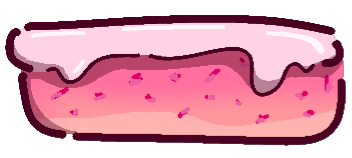
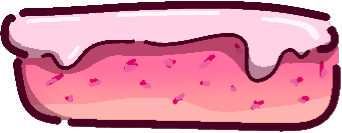
Update to Level 1
- Edited Platform Textures to fit better
- Edited Positions & Scalings

diff --git a/Cardinals/GameStates/Level1.cpp b/Cardinals/GameStates/Level1.cpp
@@ -17,6 +17,7 @@ namespace {
 
 	//LEVEL VARIABLES
 	Texture placeholderTexture;
+	Texture verticalPlatformTex, horizontalPlatformTex;
 	Texture backgrounds[4]{};
 	GameObject backgroundObjs[4]{};
 	GameObject platform;
@@ -46,6 +47,8 @@ void Level1_Load() {
 
 	playerTexture.Load_Image(Images::Player);
 	placeholderTexture.Load_Image(Images::Placeholder);
+	verticalPlatformTex.Load_Image(Images::Platform_VL);
+	horizontalPlatformTex.Load_Image(Images::Platform_HL);
 	backgrounds[0].Load_Image(Images::BG_BACKMOST);
 	backgrounds[1].Load_Image(Images::BG_CLOUDS);
 	backgrounds[2].Load_Image(Images::BG_MOUNTAIN);
@@ -54,6 +57,8 @@ void Level1_Load() {
 	if (!textures.empty()) textures.clear();
 	textures.push_back(&playerTexture);
 	textures.push_back(&placeholderTexture);
+	textures.push_back(&verticalPlatformTex);
+	textures.push_back(&horizontalPlatformTex);
 	for (Texture& t : backgrounds) {
 		textures.push_back(&t);
 	}
@@ -82,35 +87,35 @@ void Level1_Initialize()
 	mainPlayer._tag = GameObjectTag::Player;
 
 	platform.SetMesh(squareMesh);
-	platform.SetTexture(&placeholderTexture);
+	platform.SetTexture(&verticalPlatformTex);
 	platform.SetID(assigner.GetID());
-	platform.UpdateScale(AEVec2{ 500.f,900.f });
+	platform.UpdateScale(AEVec2{ 450.f,200.f });
 	platform.UpdateRotation(0.f);
-	platform.UpdatePosition(AEVec2{ AEGfxGetWinMinX() + 200.f, AEGfxGetWinMinY()});
+	platform.UpdatePosition(AEVec2{ AEGfxGetWinMinX() + 200.f, -100.f});
 
 	wall0.SetMesh(squareMesh);
-	wall0.SetTexture(&placeholderTexture);
+	wall0.SetTexture(&horizontalPlatformTex);
 	wall0.SetID(assigner.GetID());
-	wall0.UpdateScale(AEVec2{ 100.f,500.f });
+	wall0.UpdateScale(AEVec2{ 150.f,300.f });
 	wall0.UpdateRotation(0.f);
 	wall0.UpdatePosition(AEVec2{ 500.f, -200.f });
 
 	wall1.SetMesh(squareMesh);
-	wall1.SetTexture(&placeholderTexture);
+	wall1.SetTexture(&horizontalPlatformTex);
 	wall1.SetID(assigner.GetID());
-	wall1.UpdateScale(AEVec2{ 100.f,500.f });
+	wall1.UpdateScale(AEVec2{ 250.f,500.f });
 	wall1.UpdateRotation(0.f);
 	wall1.UpdatePosition(AEVec2{ 200.f, -200.f });
 
 	wall2.SetMesh(squareMesh);
-	wall2.SetTexture(&placeholderTexture);
+	wall2.SetTexture(&verticalPlatformTex);
 	wall2.SetID(assigner.GetID());
 	wall2.UpdateScale(AEVec2{ 500.f,100.f });
 	wall2.UpdateRotation(0.f);
 	wall2.UpdatePosition(AEVec2{ 0.f, -200.f });
 
 	wall3.SetMesh(squareMesh);
-	wall3.SetTexture(&placeholderTexture);
+	wall3.SetTexture(&verticalPlatformTex);
 	wall3.SetID(assigner.GetID());
 	wall3.UpdateScale(AEVec2{ 500.f,100.f });
 	wall3.UpdateRotation(0.f);

diff --git a/Cardinals/header/TextureManager.hpp b/Cardinals/header/TextureManager.hpp
@@ -48,7 +48,7 @@ namespace Images
 {
     //constexpr ImageFile Background{ "../../Assets/Background.png", 1600.f, 900.f };
     constexpr ImageFile DigipenLogo{ "../../Assets/DigiPen_WHITE.png", 1525.f, 445.f };
-    constexpr ImageFile Player{ "../../Assets/PlayerPlaceholder.png", 500.f,500.f };
+    constexpr ImageFile Player{ "../../Assets/playerIdle.PNG", 500.f,500.f };
 
     constexpr ImageFile StartBtn{ "../../Assets/Start_Button.png", 412.f, 120.f };
 	constexpr ImageFile PrevBtn{ "../../Assets/Previous_Button.png", 120.f, 120.f };
@@ -76,11 +76,11 @@ namespace Images
     constexpr ImageFile BG_CLOUDS{ "../../Assets/BG_CLOUDS.png", 1600.f, 900.f };
     constexpr ImageFile BG_FRONTMOUNTAIN{ "../../Assets/BG_FRONTMOUNTAIN.png", 1600.f, 900.f };
 
-    constexpr ImageFile Platform1{ "../../Assets/platform1.png" };
-    constexpr ImageFile Platform2{ "../../Assets/platform2.png" };
-    constexpr ImageFile Platform3{ "../../Assets/platform3.png" };
-    constexpr ImageFile Platform4{ "../../Assets/platform4.png" };
-    constexpr ImageFile Platform5{ "../../Assets/platform5.png" };
+    constexpr ImageFile Platform_VL{ "../../Assets/platform1.png" };
+    constexpr ImageFile Platform_VM{ "../../Assets/platform2.png" };
+    constexpr ImageFile Platform_VS{ "../../Assets/platform3.png" };
+    constexpr ImageFile Platform_HS{ "../../Assets/platform4.png" };
+    constexpr ImageFile Platform_HL{ "../../Assets/platform5.png" };
 }
 
 namespace Fonts
